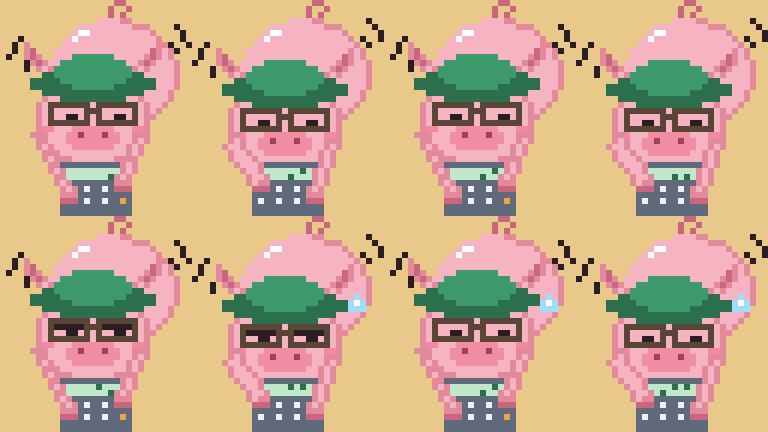
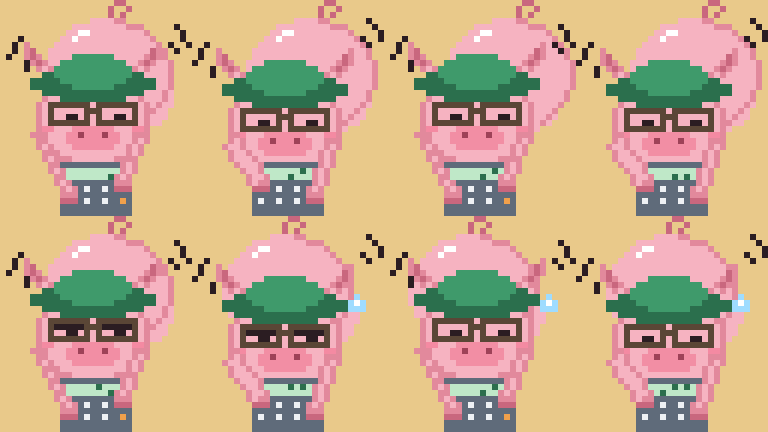
Jeff draft: his butt sways side to side as he types
Claude-Session: https://claude.ai/code/session_01BprP3fQemcA57xisFqMBVU

diff --git a/tools/jeff-draft/jeff_topdown_classic.py b/tools/jeff-draft/jeff_topdown_classic.py
@@ -1,5 +1,6 @@
 """Jeff crunching numbers in his ORIGINAL style (the app's flat 32px sprite: no outlines, green bucket hat,
-brown square glasses), seen from above like Sam's sketch: his back is a hump with the curly tail on top,
+brown square glasses), seen from above like Sam's sketch: his back is a hump with the curly tail on top
+that sways side to side as he types,
 head tipped down over a calculator he's hugging, ears out to the sides, stress lines around him.
 Palette letters are the same as PIG in index.html. Run: python3 jeff_topdown_classic.py"""
 from PIL import Image, ImageDraw
@@ -25,14 +26,16 @@ def frame(t):
     tapL, tapR = t % 2 == 0, t % 2 == 1
     bob = t % 2                                                   # head dips with each tap
     # curly tail on top of the back, twitching left/right
-    tx = 19 + (0, 1, 0, -1)[t % 4]
+    wig = (0, 2, 3, 2, 0, -2, -3, -2)[t % 8]                     # his butt sways side to side as he types
+    tx = 19 + wig + (1 if wig > 0 else -1 if wig < 0 else 0)     # the tail swings a little further than the back
     for (x, y) in ((tx, 4), (tx, 3), (tx - 1, 2), (tx - 1, 1), (tx, 0), (tx + 1, 0), (tx + 2, 1), (tx + 1, 2)): px(x, y, "h")
     back = im; im = Image.new("RGBA", (W, H), (0, 0, 0, 0)); d = ImageDraw.Draw(im)
     d_back = ImageDraw.Draw(back)
     # the back: a big hump behind the head, leaning right (visible above the hat and down the right side)
-    d_back.ellipse([8, 3, 29, 21], fill=rgb("P"))
-    d_back.arc([8, 3, 29, 21], -80, 60, fill=rgb("p"))
-    for (x, y) in ((12, 6), (13, 5), (14, 5)): d_back.point((x, y), fill=rgb("W"))
+    d_back.ellipse([7 + wig, 3, 28 + wig, 21], fill=rgb("P"))
+    d_back.ellipse([9 + wig // 2, 10, 28 + wig // 2, 22], fill=rgb("P"))        # lower back moves less (it pivots at the shoulders)
+    d_back.arc([7 + wig, 3, 28 + wig, 21], -80, 60, fill=rgb("p"))
+    for (x, y) in ((12, 6), (13, 5), (14, 5)): d_back.point((x + wig, y), fill=rgb("W"))
     y0 = 9 + bob
     # ears: up and out past the brim corners (the original's ears stick up above the hat)
     for (x, y, k) in ((4, y0-2, "p"), (4, y0-1, "p"), (5, y0-1, "P"), (4, y0, "p"), (5, y0, "P"), (6, y0, "P"), (5, y0+1, "P"), (6, y0+1, "P"), (7, y0+1, "P"), (6, y0+2, "P"), (7, y0+2, "P"), (8, y0+2, "P"),
